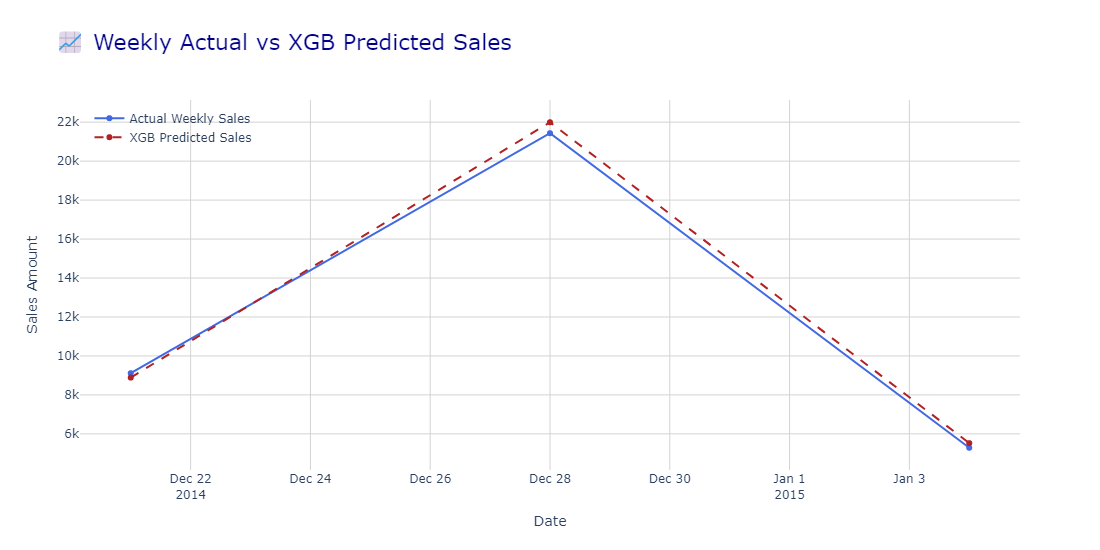
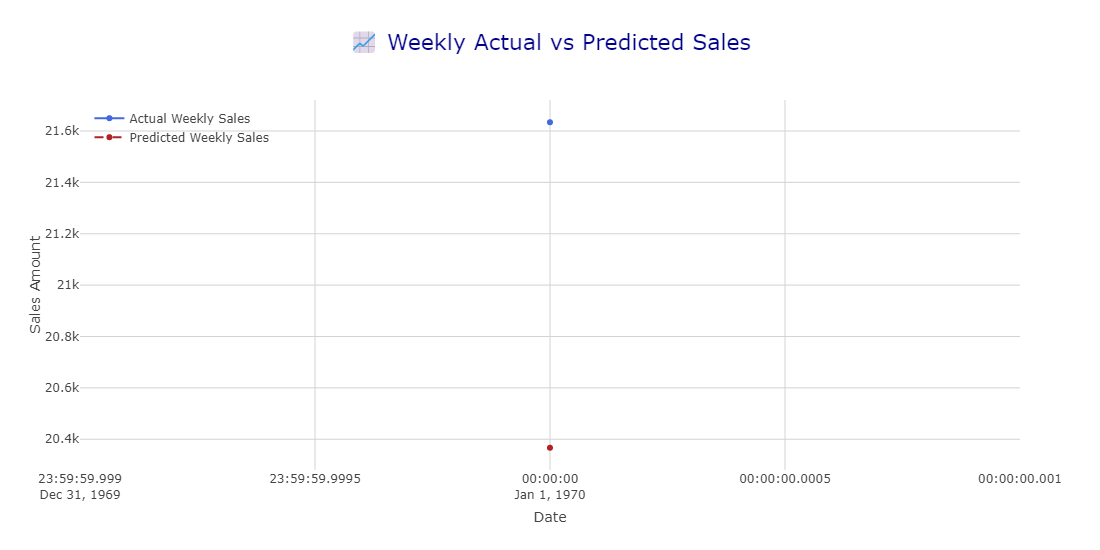
save streamlit changes

diff --git a/src/pipeline.py b/src/pipeline.py
@@ -12,57 +12,40 @@ config_path = config['paths']
 
 
 # Plot the forecast
-def plot_forecast(dates,y_actual,y_pred):
-
-    # Convert y_test and y_pred to pandas Series
-    dates = pd.to_datetime(dates)
-
-    y_actual_series = pd.Series(y_actual.values, index=dates)
-    y_pred_series = pd.Series(y_pred, index=dates)
-
-    y_actual_resampled = y_actual_series.resample('W').sum()
-    y_pred_resampled = y_pred_series.resample('W').sum()
-
-
+def plot_weekly_forecast(df):
+    """
+    Plot actual vs predicted sales using Plotly.
+    
+    Parameters:
+    df (pd.DataFrame): DataFrame with columns ['dates', 'actual', 'preds']
+    """
     fig = go.Figure()
 
-    # Actual Sales
+    # Actual sales trace
     fig.add_trace(go.Scatter(
-        x=y_actual_resampled.index,
-        y=y_actual_resampled.values,
+        x=df['Order Date'],
+        y=df['actual'],
         mode='lines+markers',
-        name='Actual Weekly Sales',
-        line=dict(color='royalblue', width=2),
-        marker=dict(size=6)
+        name='Actual Sales',
+        line=dict(color='blue')
     ))
 
-    # Predicted Sales
+    # Predicted sales trace
     fig.add_trace(go.Scatter(
-        x=y_pred_resampled.index,
-        y=y_pred_resampled.values,
+        x=df['Order Date'],
+        y=df['predictions'],
         mode='lines+markers',
-        name='Predicted Weekly Sales',
-        line=dict(color='firebrick', width=2, dash='dash'),
-        marker=dict(size=6)
+        name='Predicted Sales',
+        line=dict(color='orange', dash='dash')
     ))
 
-    # Format the plot
+    # Layout settings
     fig.update_layout(
-        title='📈 Weekly Actual vs Predicted Sales',
-        title_font=dict(size=22, color='darkblue'),
+        title='Weekly Sales Forecast vs Actual',
         xaxis_title='Date',
-        yaxis_title='Sales Amount',
-        xaxis=dict(showgrid=True, gridcolor='lightgray'),
-        yaxis=dict(showgrid=True, gridcolor='lightgray'),
-        plot_bgcolor='white',
-        legend=dict(
-            x=0.01, y=0.99,
-            bgcolor='rgba(255,255,255,0)',
-            bordercolor='gray'
-        ),
-        hovermode='x unified',
-        height=550,
-        width=1100
+        yaxis_title='Sales',
+        legend=dict(x=0.01, y=0.99),
+        template='plotly_white'
     )
 
     fig.write_image(config['dir']['artifacts_dir'] +'/forecast.png')

diff --git a/src/predict.py b/src/predict.py
@@ -1,4 +1,4 @@
-from pipeline import plot_forecast,prepare_data,read_config
+from pipeline import plot_weekly_forecast,prepare_data,read_config
 from preprocessing import load_daily_data
 import numpy as np
 import pandas as pd
@@ -13,21 +13,9 @@ config = read_config()
 config_path = config['paths']
 config_dir = config['dir']
 
-# def predict_one_week():
 
 
-# target_df,sales =prepare_data('2014-12-01')
-
-# dmatrix = xgb.DMatrix(target_df)
-xgb_model = xgb.Booster()
-xgb_model.load_model(config_path['xgb_model_path'])
-
-# pred = xgb_model.predict(dmatrix)[0]
-# print(pred,sales[0])
-
-
-
-def predict_next_week(date_str: str, model):
+def predict_next_week(date_str: str):
     # Prepare base data
     target_df, actual_sales = prepare_data(date_str)
 
@@ -63,8 +51,11 @@ def predict_next_week(date_str: str, model):
         target_df['rolling_mean_sales_1q'] = sales_history.rolling(120).mean().loc[current_date]
 
         # Predict the sales
+        xgb_model = xgb.Booster()
+        xgb_model.load_model(config_path['xgb_model_path'])
+
         dmatrix = xgb.DMatrix(target_df)
-        pred = model.predict(dmatrix)[0]
+        pred = xgb_model.predict(dmatrix)[0]
         predictions.append(pred)
 
         # Update sales history with the predicted value
@@ -81,11 +72,21 @@ def predict_next_week(date_str: str, model):
 
         target_df = pd.DataFrame([static_features])
 
-    return predictions, actual_sales
+    results = pd.DataFrame(actual_sales.values,columns=['actual'],index=actual_sales.index).reset_index()
+    results['predictions'] = predictions
 
-predictions , actual_sales =predict_next_week(date_str='2014-12-21',model= xgb_model)
+    actual = results['actual'].values
+    preds = results['predictions'].values
 
-act_vs_pred = pd.DataFrame(actual_sales.values,columns=['actual'],index=actual_sales.index).reset_index()
-act_vs_pred['predictions'] = predictions
+    fig = plot_weekly_forecast(results)
 
-print(act_vs_pred)
+    mse = mean_squared_error(actual,preds)
+    rmse = np.sqrt(mse)
+
+    r2 = r2_score(actual,preds)
+
+
+    return fig,rmse,r2,results
+
+fig,rmse ,r2,result_df = predict_next_week(date_str='2014-12-21')
+print(rmse,r2,result_df)

diff --git a/src/app.py b/src/app.py
@@ -1,5 +1,5 @@
-from preprocessing import read_config
-from predict import predict
+from preprocessing import read_config,load_data
+from predict import predict_next_week
 import streamlit as st
 import pandas as pd
 import plotly.express as px
@@ -16,8 +16,6 @@ st.set_page_config(
 config = read_config()
 # Load dataset
 
-def load_data():
-    return pd.read_csv(config['paths']['processed_data_path'])
 
 df = load_data()
 
@@ -229,16 +227,21 @@ if page == "Dashboard":
         st.dataframe (filtered_df.head(100).style.background_gradient(cmap='Blues'))
 
 elif page == "Model Deployment":
-
     st.title("🤖 Sales Forecast Dashboard")
-
-    uploaded_file = st.file_uploader("Upload your test CSV file", type=["csv"])
-
-    if uploaded_file is not None:
-        df = pd.read_csv(uploaded_file)
+    
+    input_date = st.date_input(
+        "Select Start Date",
+        min_value=pd.to_datetime('2011-01-01'),
+        max_value=pd.to_datetime('2014-12-31')
+    )
+    
+    submit_button = st.button("Forecast next week")
+    
+    if submit_button and input_date is not None:
+        
 
         with st.spinner("Processing and predicting..."):
-            rmse, r2, fig = predict(df)
+           fig,rmse,r2,results = predict_next_week(date_str=input_date)
 
         # Metrics Cards
         col1, col2 = st.columns(2)
